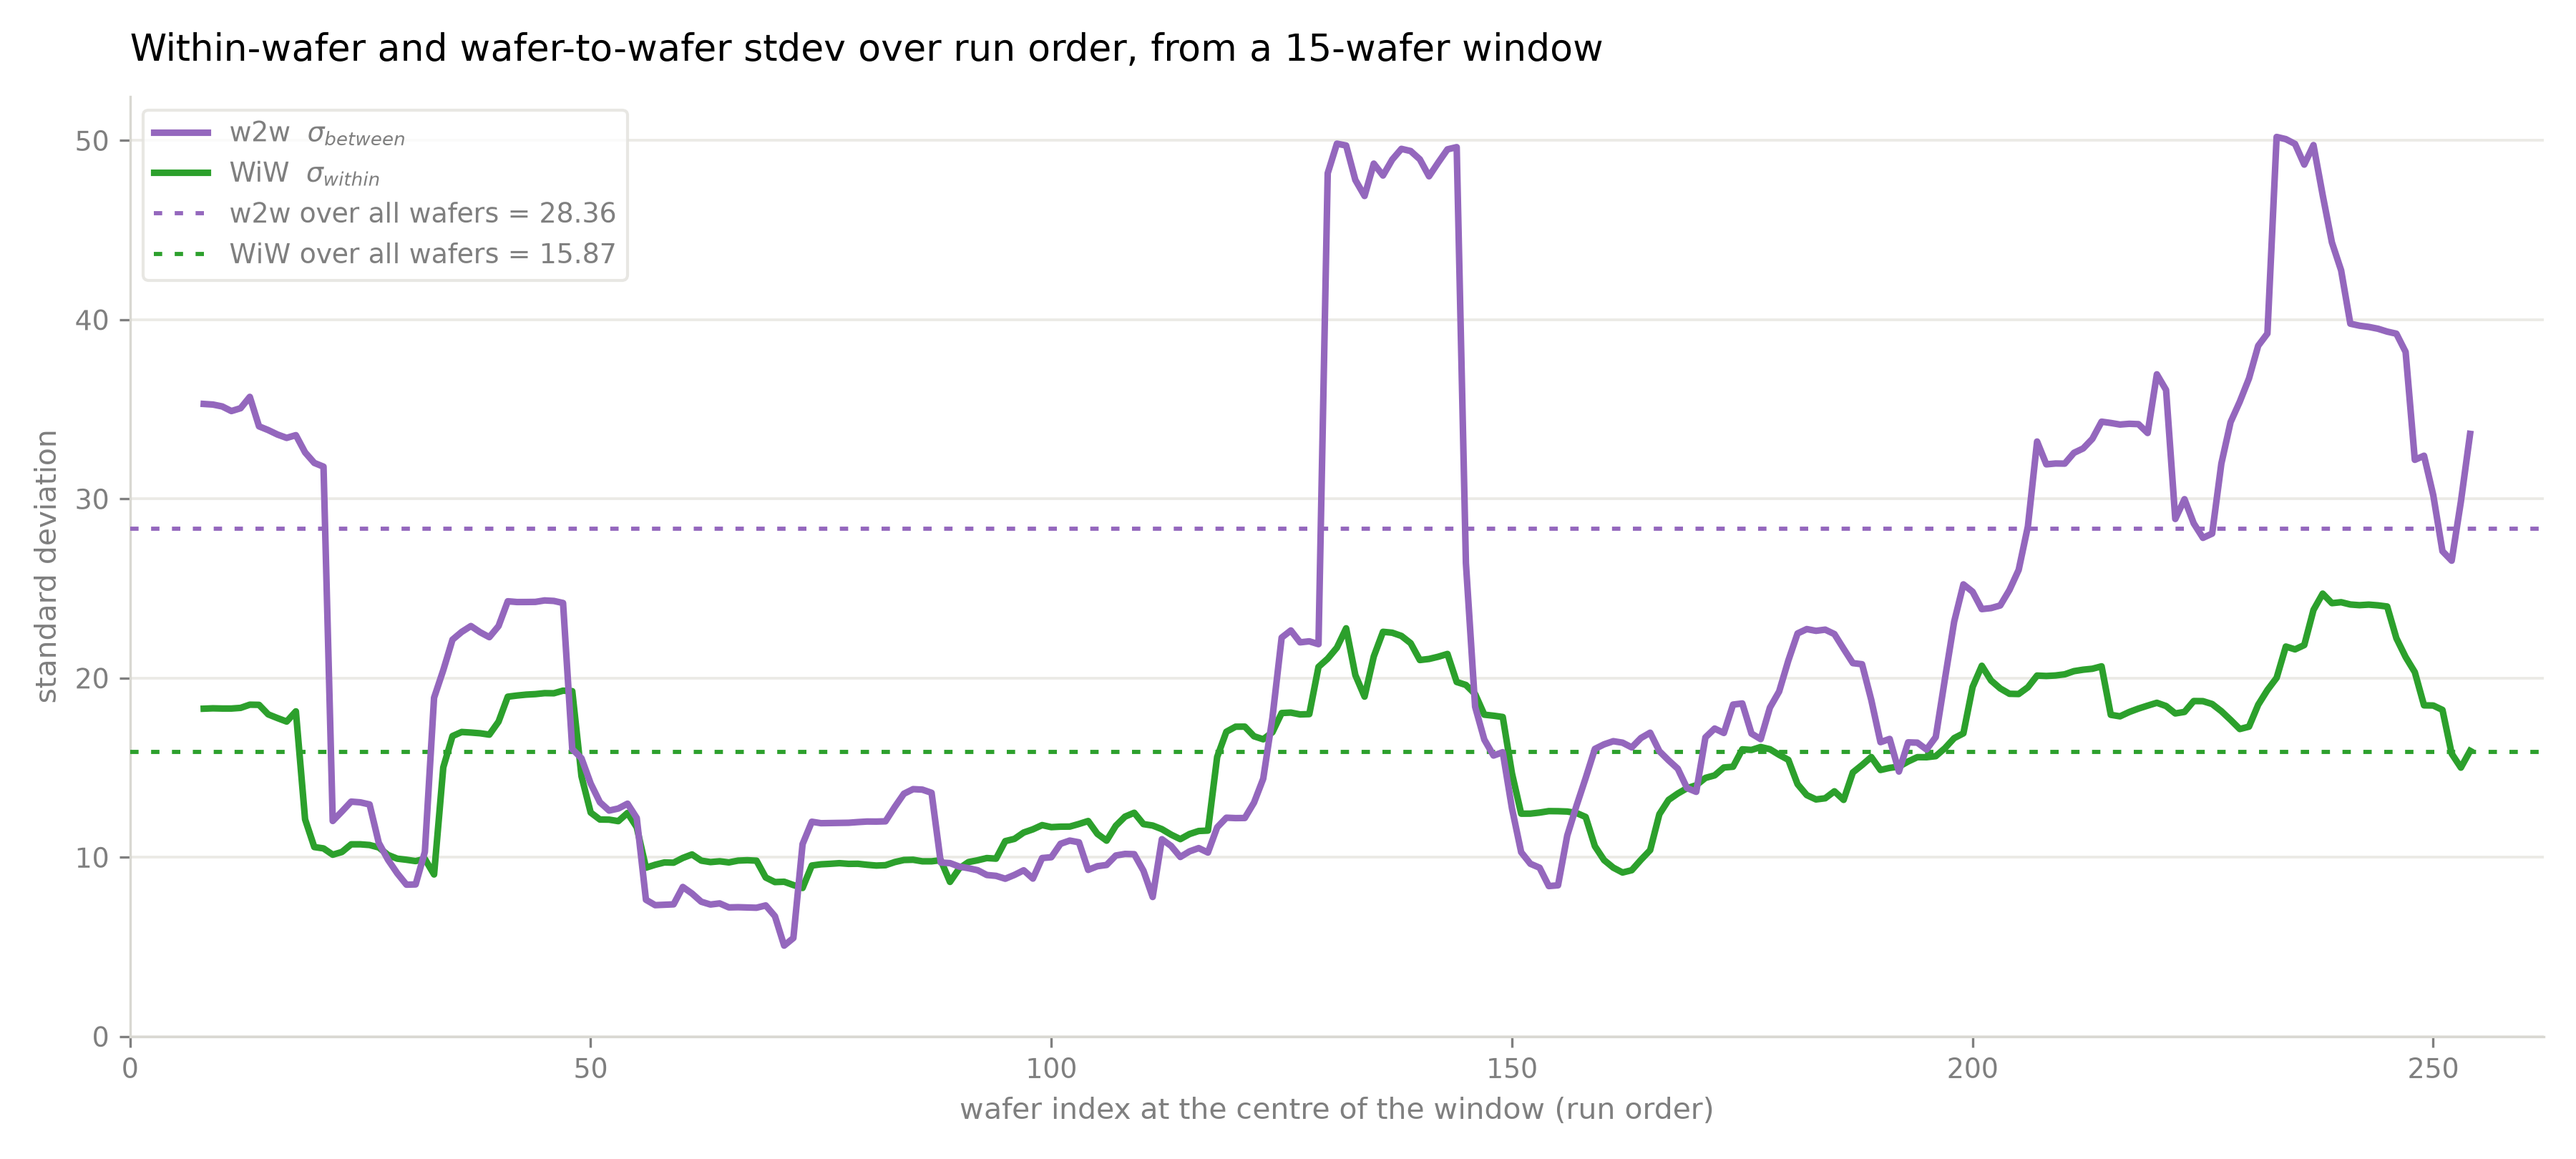
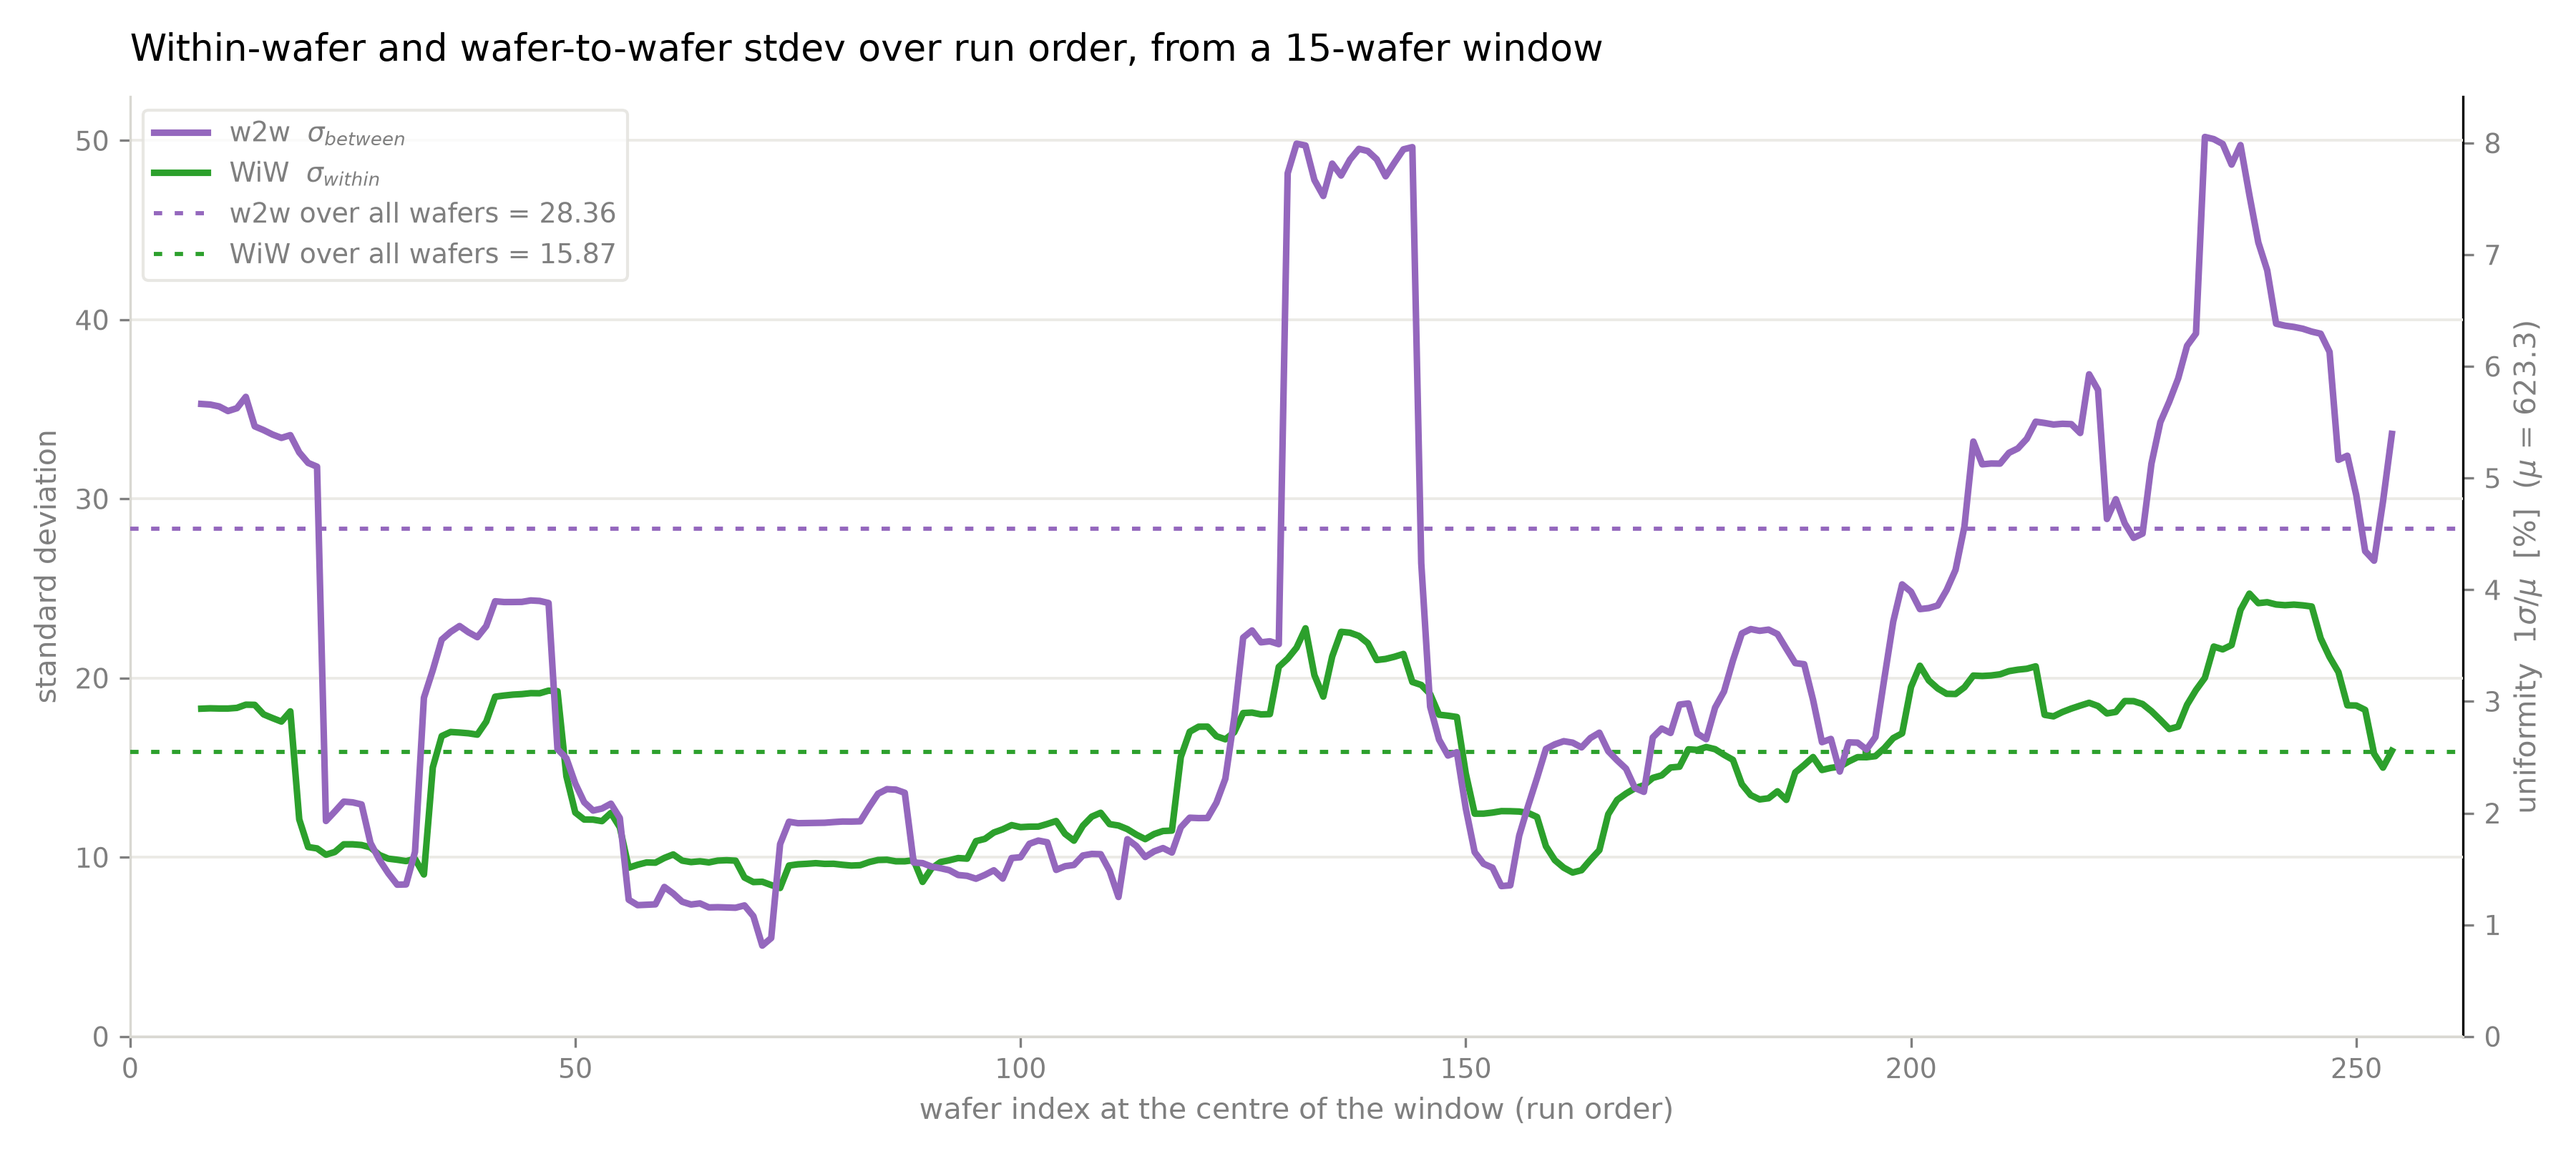
Read the rolling components as uniformity on a second scale
Add a right axis that rescales the same curves by the grand mean, so the two
components can be read as a percentage of the level they sit on.

Claude-Session: https://claude.ai/code/session_01EmRuphkFeGWkDYDUkauFqt

diff --git a/EDA/Variability/WiW-W2W/wiw_w2w_anova.py b/EDA/Variability/WiW-W2W/wiw_w2w_anova.py
@@ -12,10 +12,11 @@ Changelog:
 - 0.5.0: draw the site value figure one violin per wafer.
 - 0.6.0: add the rolling components and the figure that draws them over run order.
 - 0.7.0: trace the wafer means on the site value figure instead of their linear trend.
+- 0.8.0: scale the rolling figure's right axis as uniformity.
 """
 
 __author__ = 'yRocket'
-__version__ = "0.7.0.2026.9.3"
+__version__ = "0.8.0.2026.9.3"
 
 import argparse
 import pathlib
@@ -279,6 +280,15 @@ class WaferMeasurements:
         axes.set_xlim(0, self.wafer_count + 1)
         axes.set_ylim(bottom=0)
         axes.grid(axis='y', color='#ebeae5', lw=0.9)
+        # the right axis is the same curves read as uniformity, so it rescales the left one by the grand mean
+        grand_mean = self.values.mean()
+        uniformity = axes.secondary_yaxis('right', functions=(lambda sigma: 100 * sigma / grand_mean,
+                                                              lambda percent: percent * grand_mean / 100))
+        uniformity.set_ylabel(r"uniformity  $1\sigma / \mu$  [%%]  ($\mu$ = %.1f)" % grand_mean,
+                              fontsize=self._font_size() * 1.1, color=COLOR_INK)
+        uniformity.tick_params(colors=COLOR_INK, labelsize=self._font_size())
+        for side in ('top', 'left', 'bottom'):
+            uniformity.spines[side].set_visible(False)
         self._finish(axes=axes,
                      title=f"Within-wafer and wafer-to-wafer stdev over run order, from a {window}-wafer window",
                      xlabel="wafer index at the centre of the window (run order)",

diff --git a/EDA/Variability/WiW-W2W/wiw-w2w-anova.md b/EDA/Variability/WiW-W2W/wiw-w2w-anova.md
@@ -1,5 +1,5 @@
 # Within-Wafer and Wafer-to-Wafer Variance Decomposition
-Rev. 41 | Created: 2026-09-01 | Updated: 2026-09-03 17:35 CDT
+Rev. 42 | Created: 2026-09-01 | Updated: 2026-09-03 18:04 CDT
 
 > ANOVA (analysis of variance) 는 관측치의 전체 산포를 몇 개의 원인으로 나누어, 어느 원인이 얼마나 기여하는지 수치로 보이는 방법이다.
 
@@ -94,11 +94,11 @@ Table 2. Variance components
 
 ICC (intraclass correlation) 는 전체 분산 중 wafer 간 분산이 차지하는 비율로, 804.1 / 1056.1 = 0.761 이다. 값이 1 에 가까울수록 같은 wafer 에서 뽑은 두 site 값이 서로 닮았다는 뜻이고, 0 에 가까울수록 어느 wafer 에서 뽑았는지가 값을 예측하는 데 도움이 되지 않는다는 뜻이다. 0.761 은 site 한 점의 산포 중 76.1% 를 그 점이 놓인 wafer 가 결정한다는 것이므로, 산포를 줄이려면 site 단위 균일도보다 wafer 단위 조건을 먼저 봐야 한다.
 
-Table 2 의 두 성분은 261 장 전체를 한 번에 본 값이다. Wafer 한 장에서는 wafer 간 변동을 잴 수 없으므로, run order 를 따라 15 장 창을 한 장씩 밀며 창마다 두 성분을 다시 구하면 그 값이 공정과 함께 어떻게 움직였는지 보인다. Within-wafer 는 8.29 에서 24.71 사이 (평균 15.21) 로 완만히 오르내리는 데 그치지만, wafer-to-wafer 는 5.07 에서 50.20 사이 (평균 22.00) 로 열 배 가까이 흔들리며 wafer 130~145 와 230~240 구간에서 50 근처까지 치솟는다. 두 성분의 크기가 뒤바뀌는 구간도 있어서, wafer 50~120 에서는 71 개 창 중 48 개에서 wafer-to-wafer 가 within-wafer 아래로 내려간다 — 그 구간만 보면 산포의 주범이 wafer 단위 조건이 아니라 site 균일도였다는 뜻이다.
+Table 2 의 두 성분은 261 장 전체를 한 번에 본 값이다. Wafer 한 장에서는 wafer 간 변동을 잴 수 없으므로, run order 를 따라 15 장 창을 한 장씩 밀며 창마다 두 성분을 다시 구하면 그 값이 공정과 함께 어떻게 움직였는지 보인다. Within-wafer 는 8.29 에서 24.71 사이 (평균 15.21) 로 완만히 오르내리는 데 그치지만, wafer-to-wafer 는 5.07 에서 50.20 사이 (평균 22.00) 로 열 배 가까이 흔들리며 wafer 130~145 와 230~240 구간에서 50 근처까지 치솟는다. 오른쪽 축은 같은 곡선을 전체 평균 623.3 으로 나눈 uniformity $`1\sigma / \mu`$ 이며, 전체로 보면 within-wafer 가 2.55%, wafer-to-wafer 가 4.55% 이고 창 단위로는 각각 1.33~3.97%, 0.81~8.05% 를 오간다. 두 성분의 크기가 뒤바뀌는 구간도 있어서, wafer 50~120 에서는 71 개 창 중 48 개에서 wafer-to-wafer 가 within-wafer 아래로 내려간다 — 그 구간만 보면 산포의 주범이 wafer 단위 조건이 아니라 site 균일도였다는 뜻이다.
 
 <img src="wiw-w2w-anova_fig/rolling_components.png" width="900" style="max-width: 100%;" alt="Fig 2">
 
-Fig 2. Within-wafer and wafer-to-wafer standard deviation over run order, each from a 15-wafer window
+Fig 2. Within-wafer and wafer-to-wafer standard deviation over run order, each from a 15-wafer window, with the right axis reading the same curves as uniformity
 
 ## 4. Cumulative Standard Deviation of the Wafer Means
 
